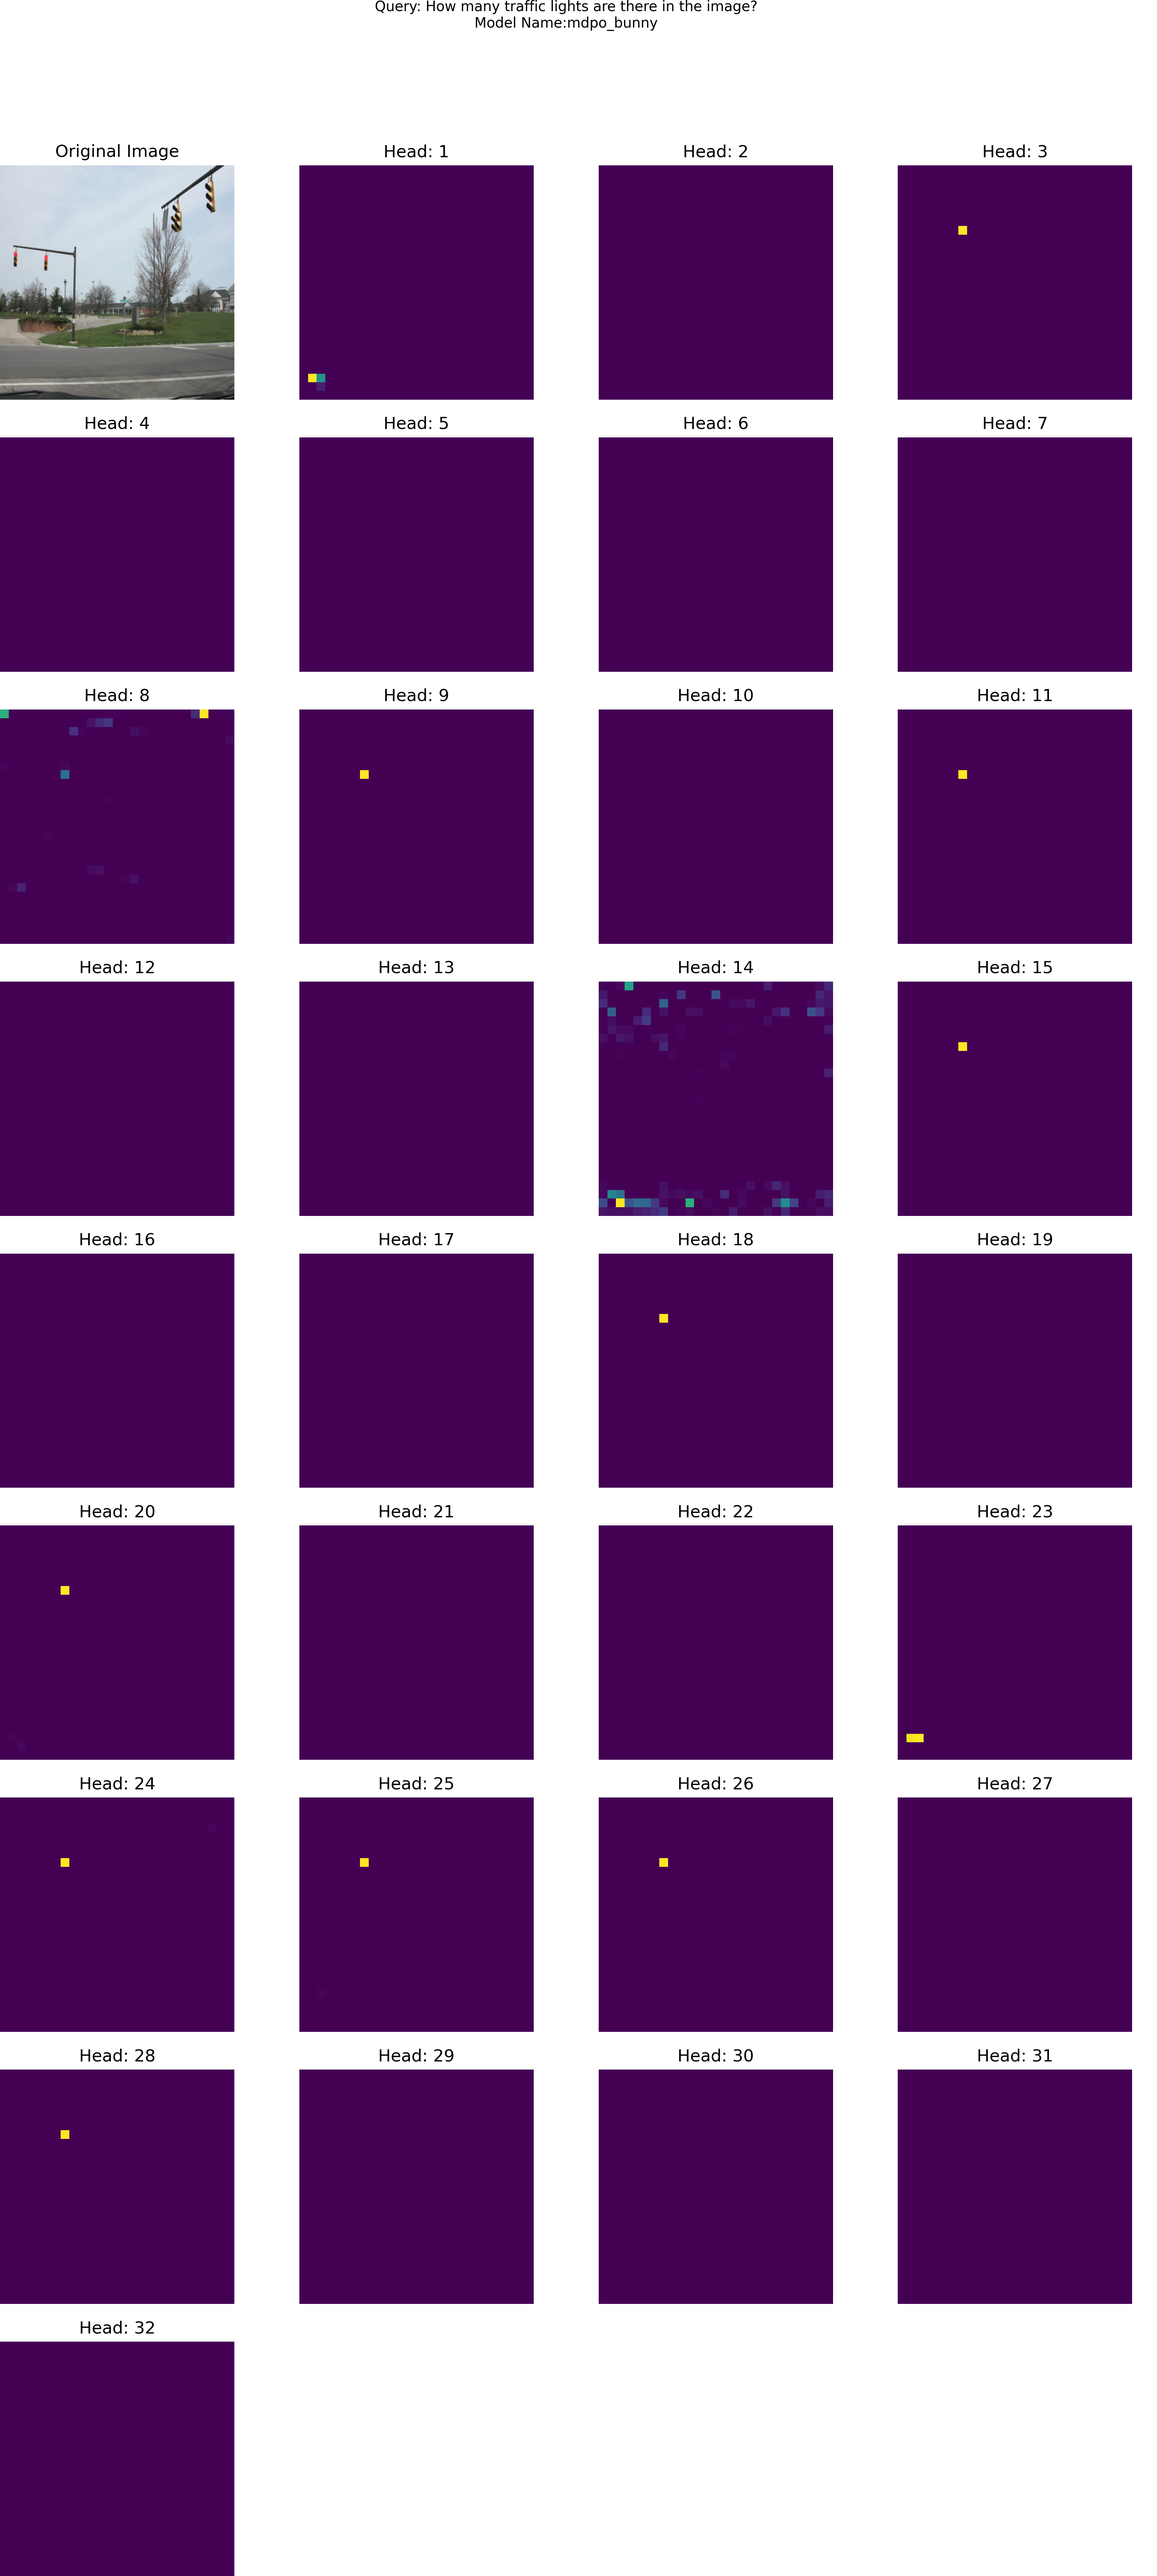
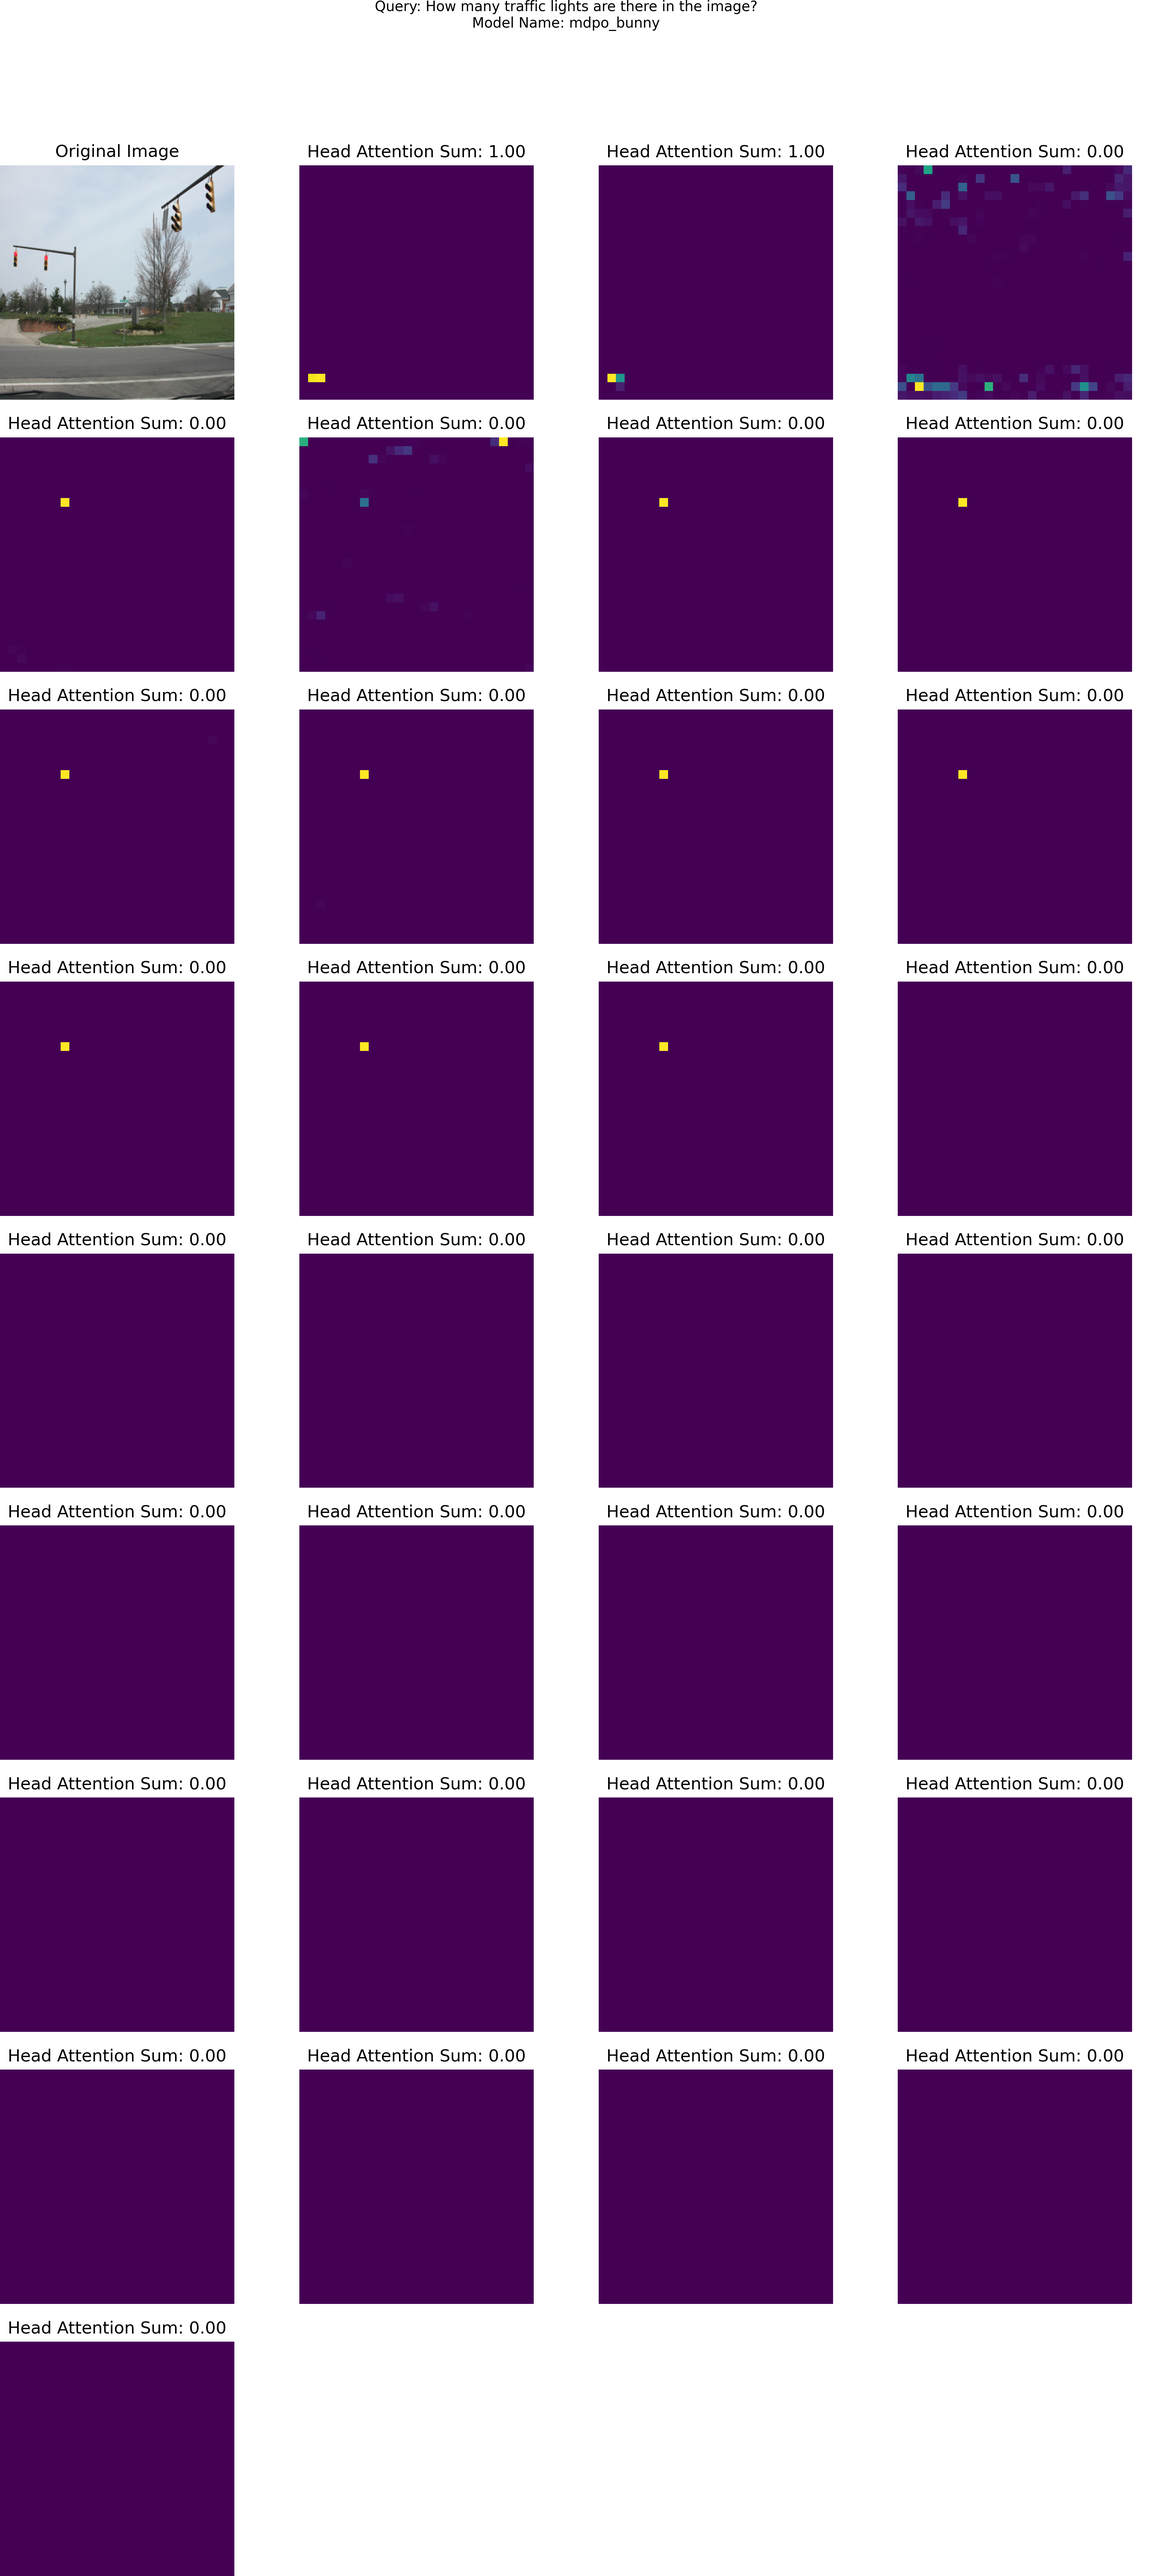
Use attention sum to rank the attention heads

diff --git a/mDPO/bunny/sam.py b/mDPO/bunny/sam.py
@@ -164,6 +164,11 @@ image_path = './data/test/count1.jpg'
 # # image path
 # image_path = './data/test/count9.jpg'
 
+# function to calculate the attention sum of each head 
+# corresponding to the image tokens
+def attention_sums(img_attn_scores):
+    return img_attn_scores.sum(dim=1)
+
 # function to calculate the spatial attention maps for each head
 def spatial_attention_map(question, img_tensor, tokenizer, model, layer_index = -1):
     # list to store attention maps for each head
@@ -193,16 +198,22 @@ def spatial_attention_map(question, img_tensor, tokenizer, model, layer_index = 
     # index position where the first image token is located
     image_token_pos = data["prompt_input_ids"].index(-200)
 
-    # extract attention scores when predicting the first answer token
+    # when predicting the first answer token
+    # extract the attention scores to the image tokens
     ans_img_attn_scores = att_scores[:, -1, image_token_pos:image_token_pos+729] # (heads, 729)
 
-    #print(f"USING TOKEN: {tokenizer.decode(data['prompt_input_ids'][-1])}")
+    # calculate the attention sum for each head
+    ans_img_attn_sums = attention_sums(ans_img_attn_scores) # (heads,)
 
-    for ans_img_attn_score in ans_img_attn_scores:
+
+    for ans_img_attn_score, ans_img_attn_sum in zip(ans_img_attn_scores, ans_img_attn_sums):
         # reshape to 27 x 27 (no. of patches) to get the spatial attention map
         spatial_attn_map = ans_img_attn_score.reshape(27, 27).cpu().detach().numpy()
 
-        all_sam.append(spatial_attn_map)
+        all_sam.append((spatial_attn_map, ans_img_attn_sum))
+
+    # sort by attention sum
+    all_sam.sort(key=lambda x:x[1], reverse=True)
 
     return all_sam
 
@@ -237,8 +248,8 @@ axes[0].axis('off')
 
 # plot the attention maps
 for i in range(len(spt_attn_maps)):
-    axes[i+1].imshow(spt_attn_maps[i], cmap='viridis')
-    axes[i+1].set_title(f"Head: {i+1}")
+    axes[i+1].imshow(spt_attn_maps[i][0], cmap='viridis')
+    axes[i+1].set_title(f"Head Attention Sum: {spt_attn_maps[i][1]:.2f}")
     axes[i+1].axis('off')
 
 # turn off remaining plots
